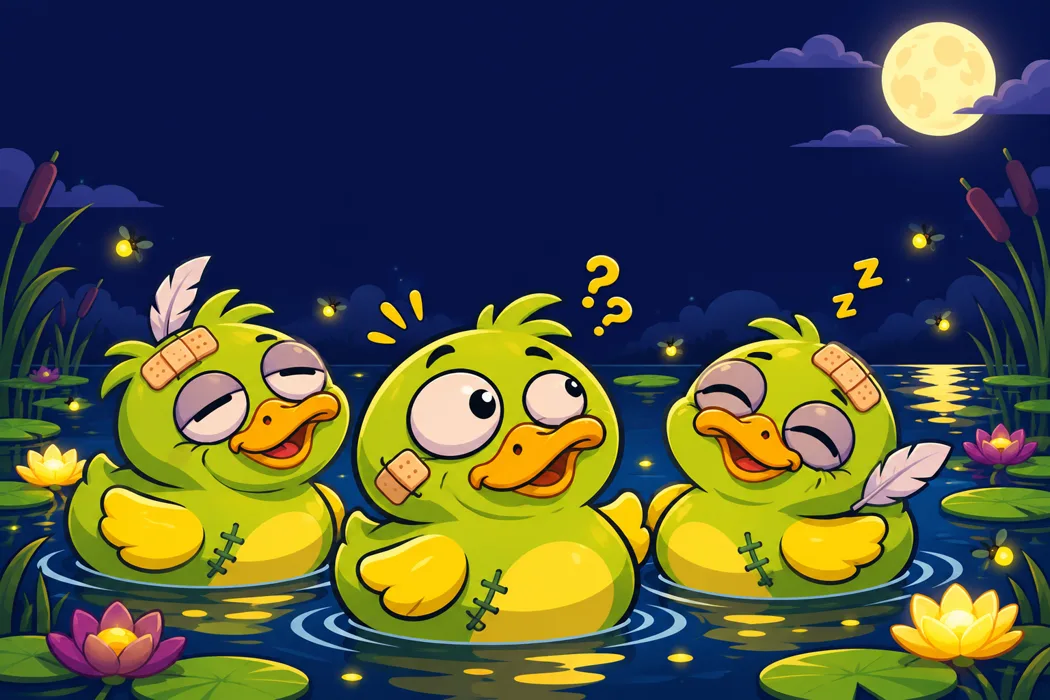
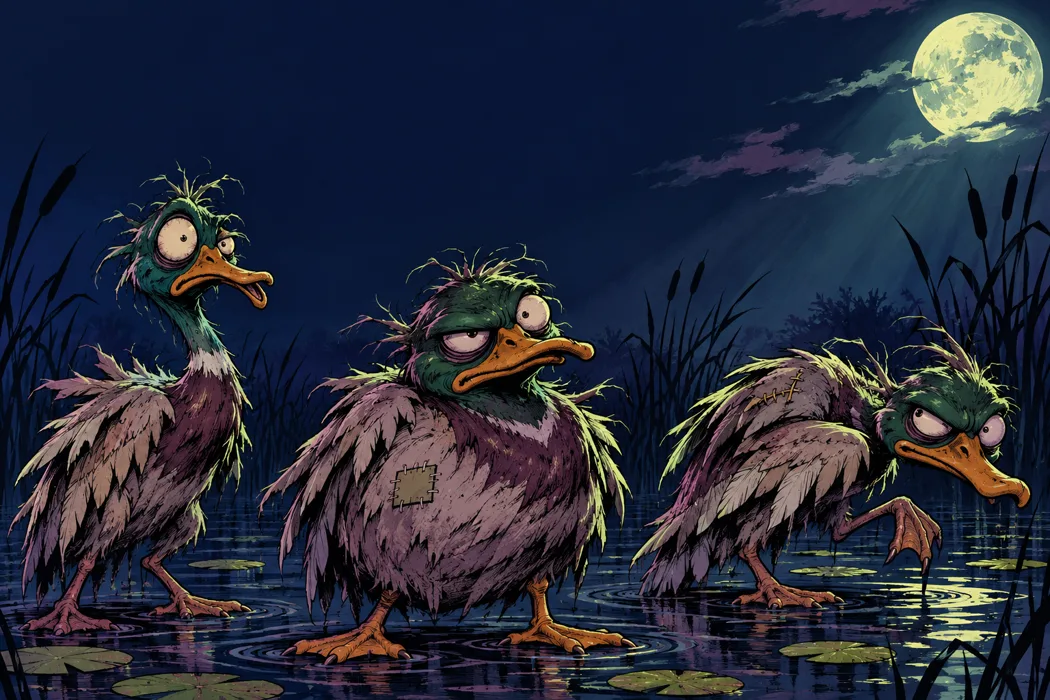
Give the zombie duck cover a scruffier midnight look

diff --git a/index.html b/index.html
@@ -1,5 +1,5 @@
 <!doctype html><html lang="en"><head><meta charset="utf-8"><meta name="viewport" content="width=device-width,initial-scale=1"><title>Zombie Ducks in the Dark — v0.29</title><style>html,body{margin:0;background:#090d0d;color:#d7e3db;font:16px system-ui;min-height:100%}main{max-width:650px;margin:10vh auto;padding:24px;text-align:center}h1{font-weight:550;letter-spacing:.03em}button{background:#bde4be;color:#101a11;border:0;border-radius:9px;padding:14px 28px;font-size:17px;cursor:pointer}button:disabled{opacity:.6}small{display:block;margin:20px;color:#93a89b}#status{margin:28px;font-size:19px}#debug{margin:20px auto;padding:16px;max-width:420px;border:1px solid #355044;border-radius:12px;background:#101b19;color:#b9dfc3;font:13px monospace;text-align:left}#radar{display:block;width:100%;max-width:360px;height:auto;margin:auto}#telemetry{white-space:pre-wrap;line-height:1.6}#debugToggle{margin:12px 0;background:#253c33;color:#d3ebd9;padding:9px 16px;font-size:14px}#score{color:#c1d8c3} .cover{position:relative;overflow:hidden;border-radius:22px;min-height:330px;background:radial-gradient(ellipse at 50% 78%,#77543d 0%,#382b27 29%,#101818 66%,#090d0d 100%);box-shadow:0 24px 80px #0008,inset 0 0 70px #000a;border:1px solid #80664c55;display:flex;flex-direction:column;align-items:center;justify-content:space-between;padding:28px 18px 22px}.cover h1{position:relative;z-index:2;font-size:clamp(36px,6.8vw,66px);line-height:.94;letter-spacing:-.04em;color:#ffe4ac;text-shadow:4px 5px #25120e,0 0 30px #000;margin:0;max-width:590px;font-weight:900;transform:rotate(-2deg)}.cover h1 span{display:block;font-size:.26em;letter-spacing:.04em;color:#f58d9a;margin-top:12px;transform:rotate(2deg)}.cover .startwrap{position:relative;z-index:3}.cover #start{font-weight:850;font-size:23px;letter-spacing:.04em;border-radius:50px;padding:16px 44px;background:#fa8394;box-shadow:0 7px #873e4d,0 13px 20px #0009}.cover #start:disabled{background:#9db5a0;box-shadow:none}.cover .hint{font-size:13px;color:#f9d9af;margin:18px 0 0}.intro{line-height:1.5;color:#c6d6ca;margin:25px auto;max-width:560px}@media(prefers-reduced-motion:reduce){} .touch-controls{display:grid;grid-template-columns:repeat(3,minmax(0,1fr));gap:10px;max-width:340px;margin:22px auto 10px;touch-action:manipulation;user-select:none;-webkit-user-select:none}.touch-controls button{min-height:68px;padding:10px;background:#bde4be;border-radius:16px;font-size:28px;font-weight:750;box-shadow:0 4px #5a8a6a}.touch-controls button:active{transform:translateY(3px);box-shadow:0 1px #5a8a6a}.touch-controls button[data-direction="front"]{grid-column:2;grid-row:1}.touch-controls button[data-direction="left"]{grid-column:1;grid-row:1}.touch-controls button[data-direction="right"]{grid-column:3;grid-row:1}.touch-label{font-size:13px;display:block;margin-top:2px}@media(min-width:760px){.touch-controls{max-width:290px}.touch-controls button{min-height:60px}}@media(max-width:760px){main{margin:0 auto;padding:10px 12px 190px}.cover{min-height:0;padding:12px 12px 10px;border-radius:15px}.cover h1{font-size:clamp(28px,8vw,43px)}.cover h1 span{margin-top:6px}.cover #start{font-size:17px;padding:10px 26px}.cover .hint{font-size:10px;margin:9px 0 0}.intro{display:none}#status{margin:12px 4px 4px;font-size:16px;min-height:24px}#score{margin:6px}.touch-controls{position:fixed;z-index:30;bottom:max(8px,env(safe-area-inset-bottom));left:50%;transform:translateX(-50%);width:min(94vw,360px);max-width:none;margin:0;padding:8px 12px 12px;background:#15201df5;border:1px solid #567362;border-radius:20px;box-shadow:0 5px 30px #000c;gap:7px}.touch-controls button{min-height:55px;font-size:25px;padding:5px}.touch-label{font-size:11px}small{margin-top:18px}}
-.cover{min-height:390px;background:#07132b url("./art/zombie-duck-pond.webp") center bottom/cover no-repeat}
+.cover{min-height:390px;background:#07132b url("./art/zombie-duck-pond.webp?art=2") center bottom/cover no-repeat}
 .cover h1{color:#e7ff79}
 .cover .startwrap{align-self:center}
 @media(max-width:760px){
